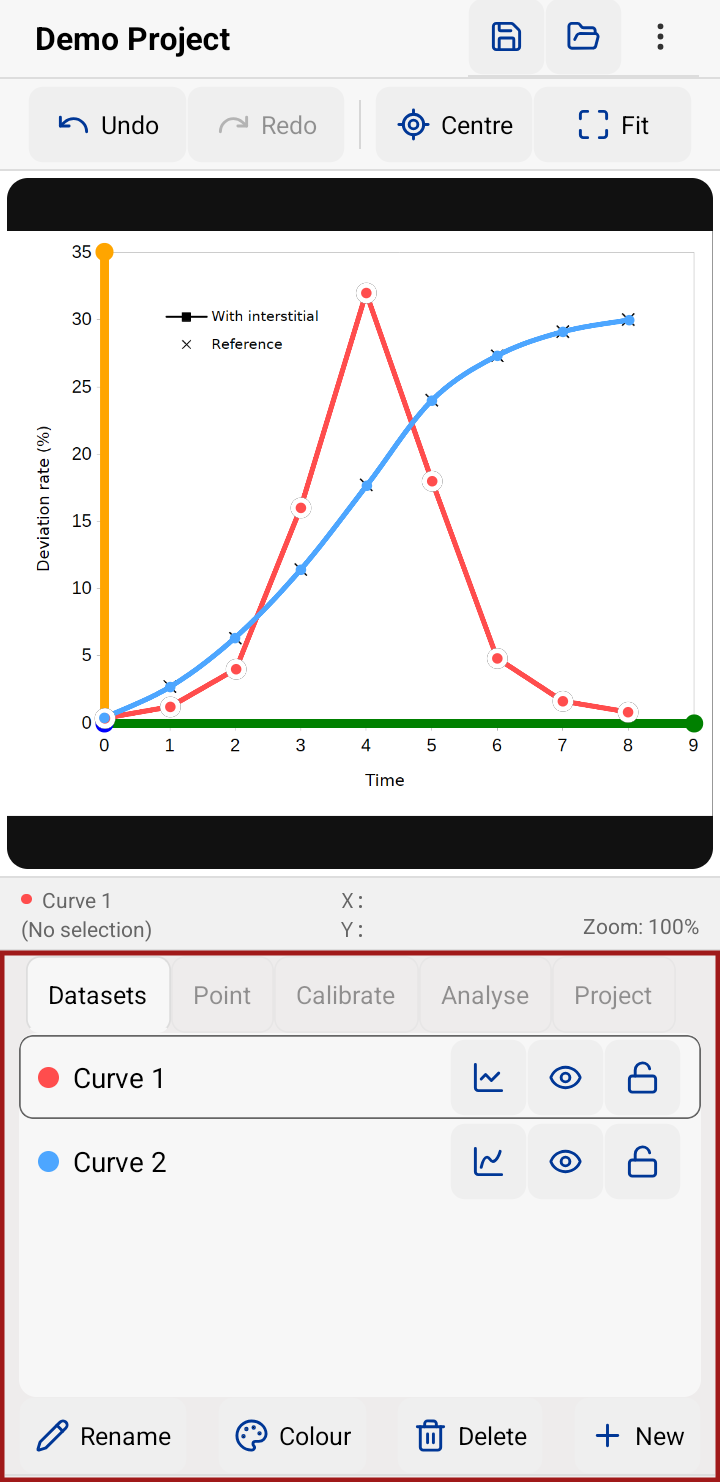
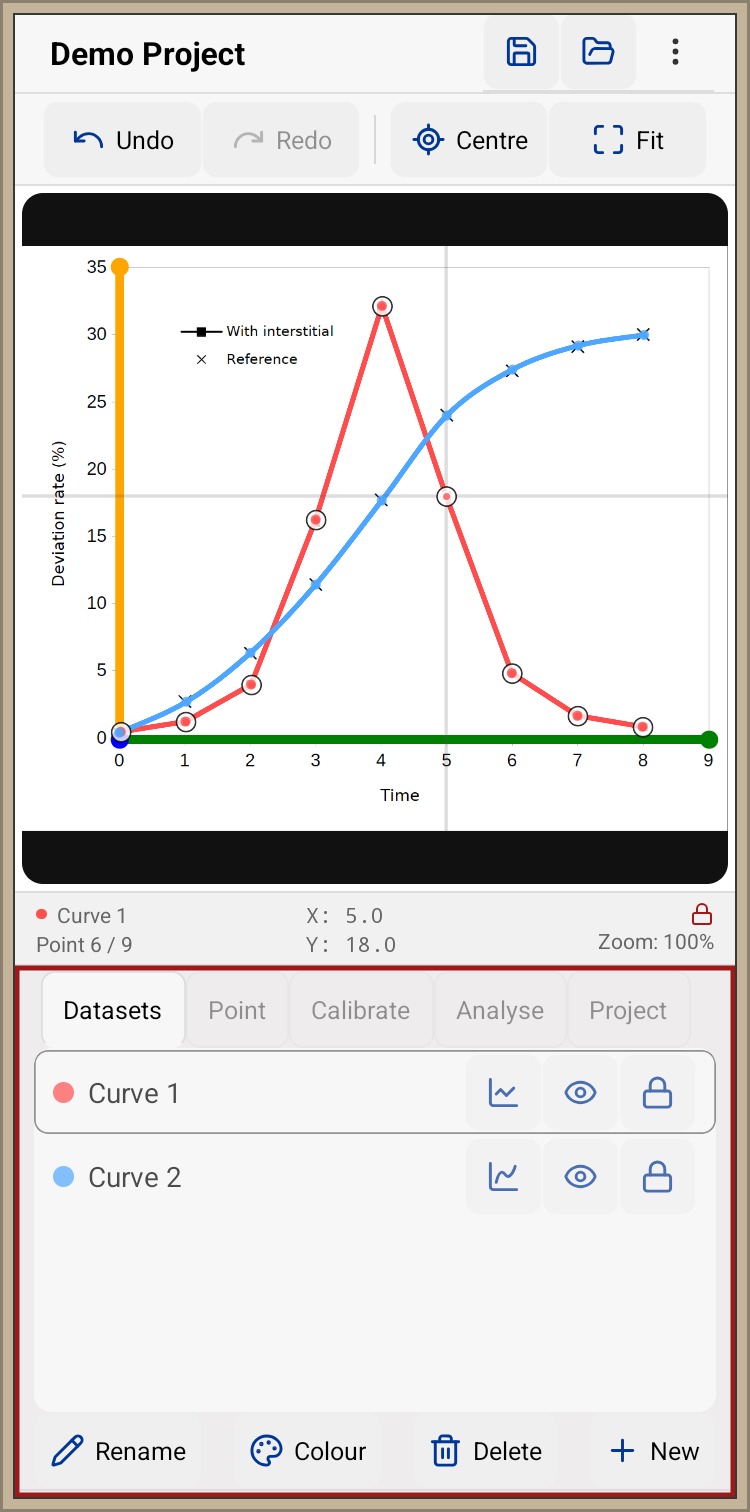
Scale point nudging with zoom level

diff --git a/app/screens/MainScreen.js b/app/screens/MainScreen.js
@@ -1732,8 +1732,6 @@ export default function MainScreen({ onOpenList, loadedProject, setLoadedProject
                         />
                       </View>
                     </View>
-
-
                   </View>
 
                 )}
@@ -1997,19 +1995,19 @@ export default function MainScreen({ onOpenList, loadedProject, setLoadedProject
                     <View style={styles.pointControls}>
                       <IconButton
                         icon="nudgeLeft"
-                        onPress={() => nudgePoint(-1, 0)}
+                        onPress={() => nudgePoint(-1 / zoomDisplay, 0)}
                       />
                       <IconButton
                         icon="nudgeRight"
-                        onPress={() => nudgePoint(1, 0)}
+                        onPress={() => nudgePoint(1 / zoomDisplay, 0)}
                       />
                       <IconButton
                         icon="nudgeUp"
-                        onPress={() => nudgePoint(0, -1)}
+                        onPress={() => nudgePoint(0, -1 / zoomDisplay)}
                       />
                       <IconButton
                         icon="nudgeDown"
-                        onPress={() => nudgePoint(0, 1)}
+                        onPress={() => nudgePoint(0, 1 / zoomDisplay)}
                       />
                     </View>
 
@@ -2253,22 +2251,22 @@ export default function MainScreen({ onOpenList, loadedProject, setLoadedProject
                       <View style={styles.pointControls}>
                         <IconButton
                           icon="nudgeLeft"
-                          onPress={() => nudgeCalibrationPoint(-1, 0)}
+                          onPress={() => nudgeCalibrationPoint(-1 / zoomDisplay, 0)}
                           disabled={mode === 'yRef'}
                         />
                         <IconButton
                           icon="nudgeRight"
-                          onPress={() => nudgeCalibrationPoint(1, 0)}
+                          onPress={() => nudgeCalibrationPoint(1 / zoomDisplay, 0)}
                           disabled={mode === 'yRef'}
                         />
                         <IconButton
                           icon="nudgeUp"
-                          onPress={() => nudgeCalibrationPoint(0, -1)}
+                          onPress={() => nudgeCalibrationPoint(0, -1 / zoomDisplay)}
                           disabled={mode === 'xRef'}
                         />
                         <IconButton
                           icon="nudgeDown"
-                          onPress={() => nudgeCalibrationPoint(0, 1)}
+                          onPress={() => nudgeCalibrationPoint(0, 1 / zoomDisplay)}
                           disabled={mode === 'xRef'}
                         />
                       </View>

diff --git a/app/components/GraphCanvas.js b/app/components/GraphCanvas.js
@@ -577,7 +577,7 @@ export default function GraphCanvas(props) {
         displaySize.height / imageHeight
     );
 
-    const maxScale = fitScale * 4;
+    const maxScale = fitScale * 10;
     const minScale = fitScale * 0.5;
 
 

diff --git a/README.md b/README.md
@@ -31,6 +31,14 @@ The application is designed for extracting numerical data from graphs when the o
 
 ## Screenshots
 
+### Spline Interpolation
+
+Visualize interpolated curves and manage multiple datasets.
+
+<p align="center">
+  <img src="screenshots/interpolation.png" width="350">
+</p>
+
 ### Calibration
 
 Define graph axes and reference points for coordinate conversion.
@@ -47,18 +55,9 @@ Digitize points and perform curve fitting.
   <img src="screenshots/data-fit.png" width="350">
 </p>
 
-### Spline Interpolation
-
-Visualize interpolated curves and manage multiple datasets.
-
-<p align="center">
-  <img src="screenshots/interpolation.png" width="350">
-</p>
-
-
 ## Status
 
-Version 0.1.0
+Version 0.1.2
 
 ## License
 